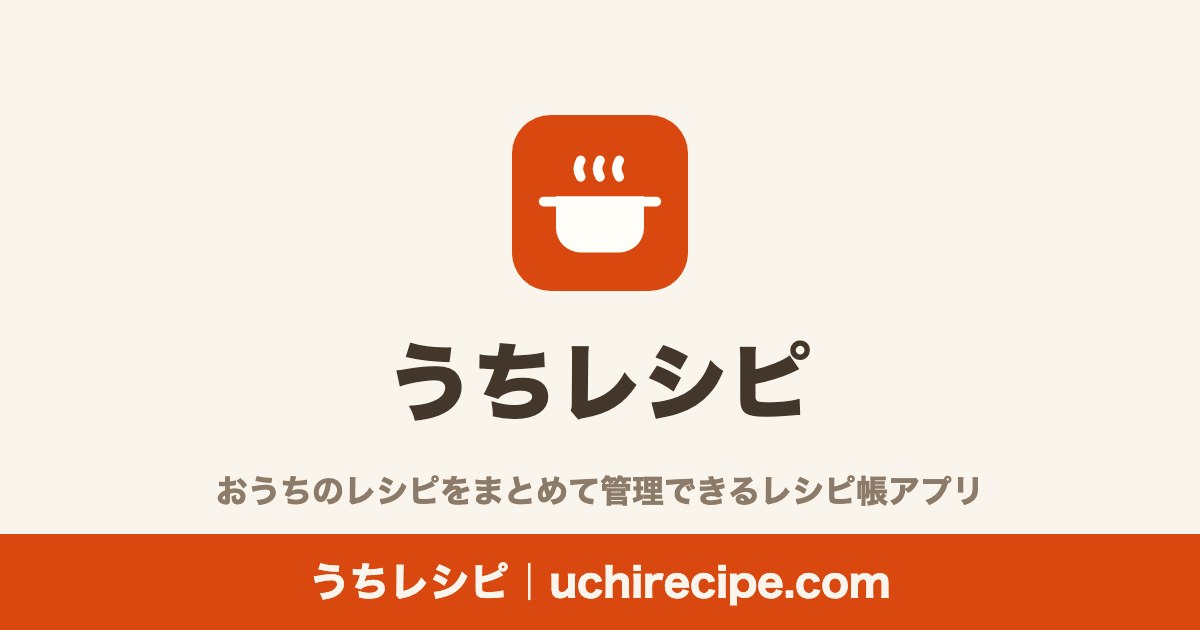
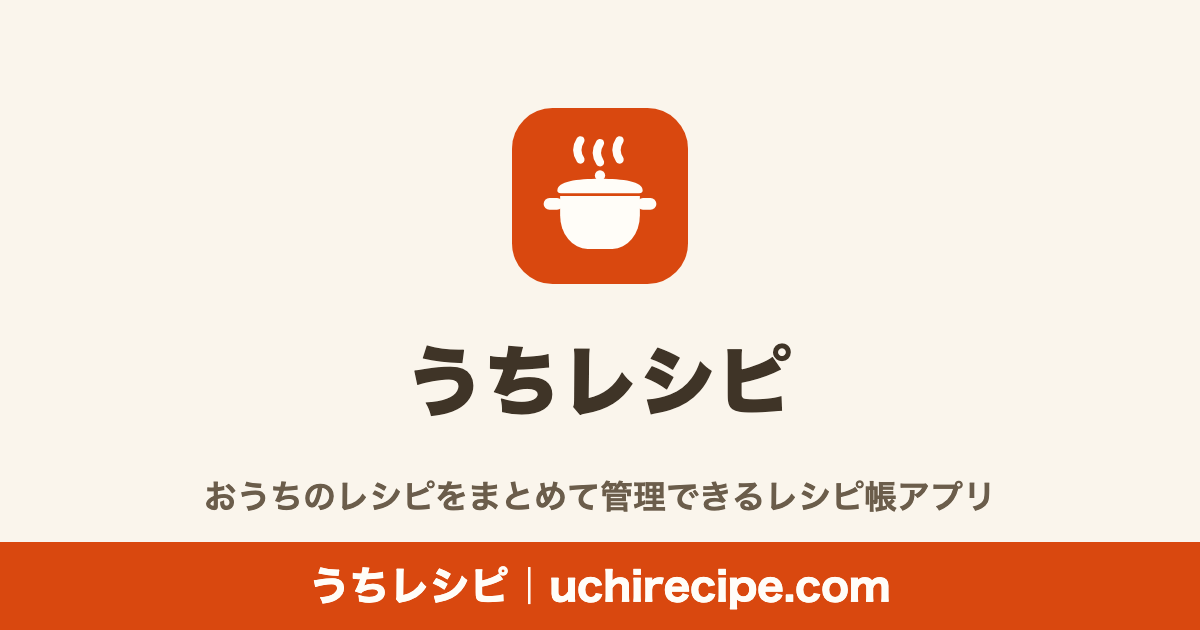
正式アイコン適用: B案(ふた付き鍋)をベクター化、PNG一式とOGP画像も更新
- オーナー承認済みB案の参照画像を忠実にSVG化(線・境界のみ整形): 湯気3本+つまみ+低いドームのふた+取っ手+深鍋の胴、ブランド色#d9480f
- maskable版は絵柄を中央80%のセーフゾーンに配置
- PNG一式を追加(192/512/maskable512/apple-touch180)し、manifestとindex.htmlに登録(SVG非対応環境とiOSホーム画面向け)
- ogp.pngを新アイコンで再生成(レイアウト・文言は現行踏襲)
- 検証: tsc/build/E2E preview 20/20

diff --git a/vite.config.ts b/vite.config.ts
@@ -15,7 +15,7 @@ export default defineConfig({
     VitePWA({
       // 新しいバージョンを公開したら、開いているアプリを自動で更新する
       registerType: 'autoUpdate',
-      includeAssets: ['icon.svg', 'icon-maskable.svg'],
+      includeAssets: ['icon.svg', 'icon-maskable.svg', 'apple-touch-icon.png'],
       manifest: {
         name: 'うちレシピ',
         short_name: 'うちレシピ',
@@ -36,6 +36,24 @@ export default defineConfig({
             src: 'icon-maskable.svg',
             sizes: 'any',
             type: 'image/svg+xml',
+            purpose: 'maskable',
+          },
+          {
+            src: 'pwa-192x192.png',
+            sizes: '192x192',
+            type: 'image/png',
+            purpose: 'any',
+          },
+          {
+            src: 'pwa-512x512.png',
+            sizes: '512x512',
+            type: 'image/png',
+            purpose: 'any',
+          },
+          {
+            src: 'maskable-icon-512x512.png',
+            sizes: '512x512',
+            type: 'image/png',
             purpose: 'maskable',
           },
         ],

diff --git a/index.html b/index.html
@@ -3,6 +3,7 @@
   <head>
     <meta charset="UTF-8" />
     <link rel="icon" type="image/svg+xml" href="/icon.svg" />
+    <link rel="apple-touch-icon" href="/apple-touch-icon.png" />
     <meta name="viewport" content="width=device-width, initial-scale=1.0, viewport-fit=cover" />
     <meta name="theme-color" content="#d9480f" />
     <meta name="description" content="おうちのレシピをまとめて管理できるレシピ帳アプリ" />